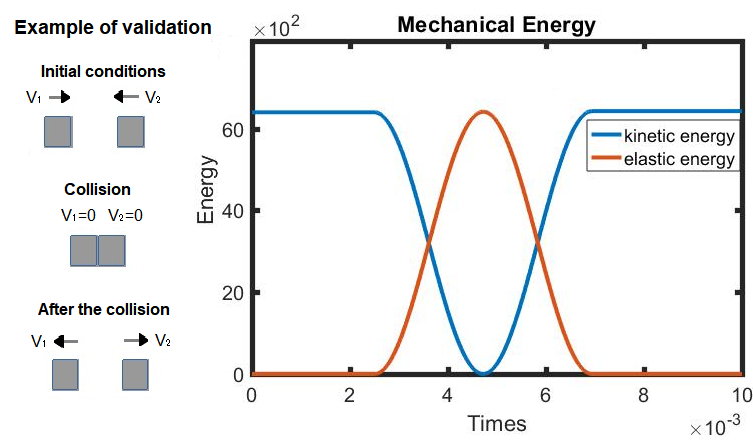
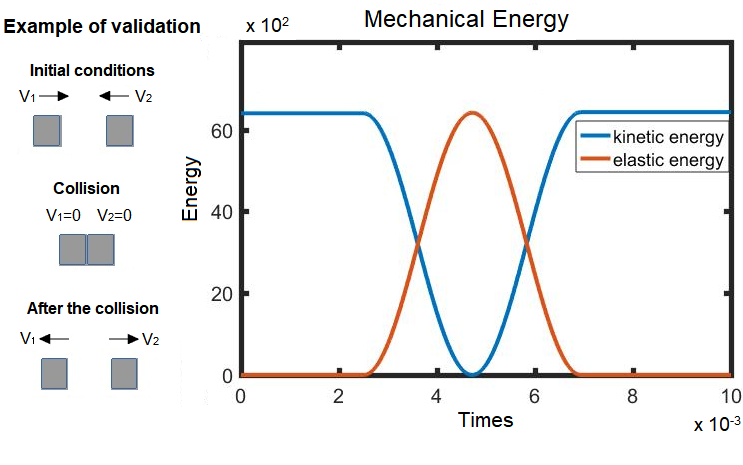
.

diff --git a/raa-lccv.tex b/raa-lccv.tex
@@ -83,7 +83,7 @@
 The computational techniques described in the methodology were implemented in MATLAB, generating a computational module capable of solving the dynamics and contacts of rigid bodies. For the validation of the program, the energy conservation and the conservation of the linear and angular moments of the system were analyzed. A good approximation was obtained in the simulation of the objects dynamics, showing that the physical concepts involved were correctly implemented. Moreover, the smaller the increment of time used in the temporal integration, the better the results of the simulation, as expected.
 }
     %------------------------------------------------------
-     \setresultsfigure{energiamecanica.png}{width=9.5cm}
+     \setresultsfigure{energiamecanica.png}{width=8.0cm}
 
     
     % DO NOT EDIT HERE !!!!!!!
